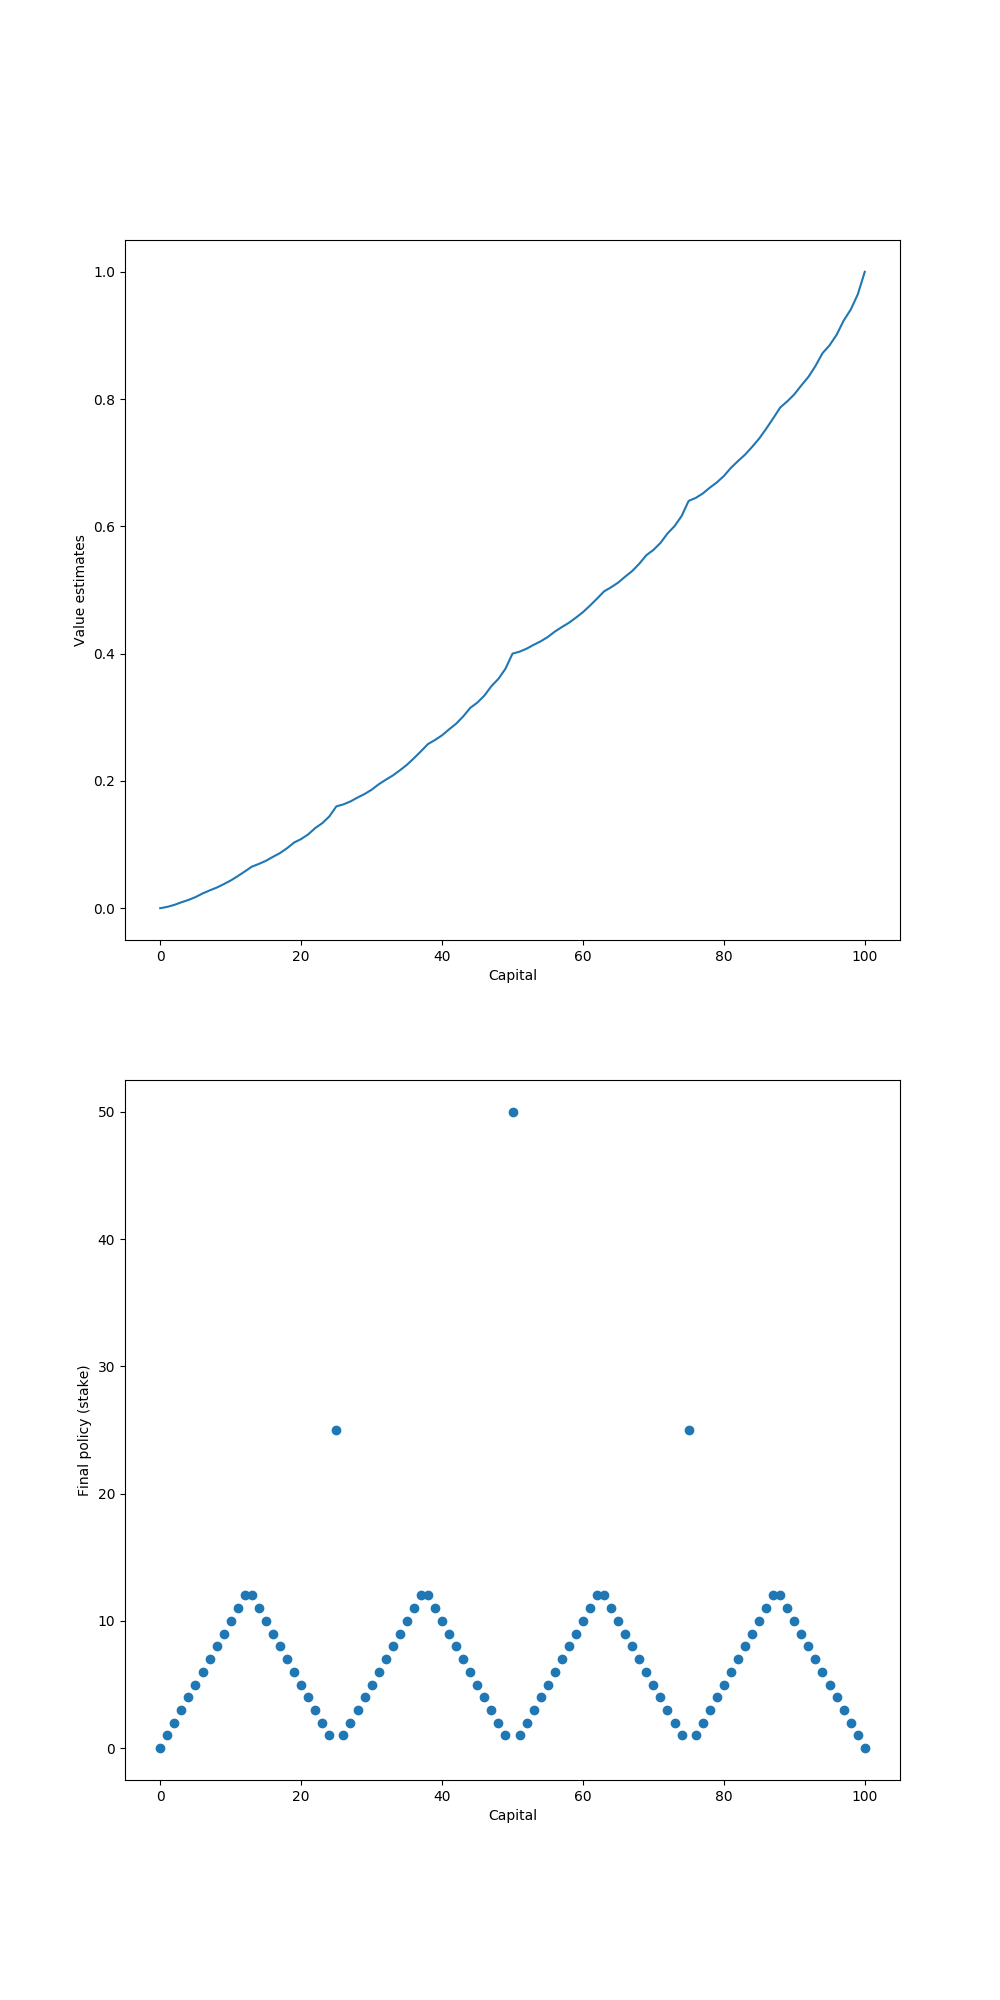
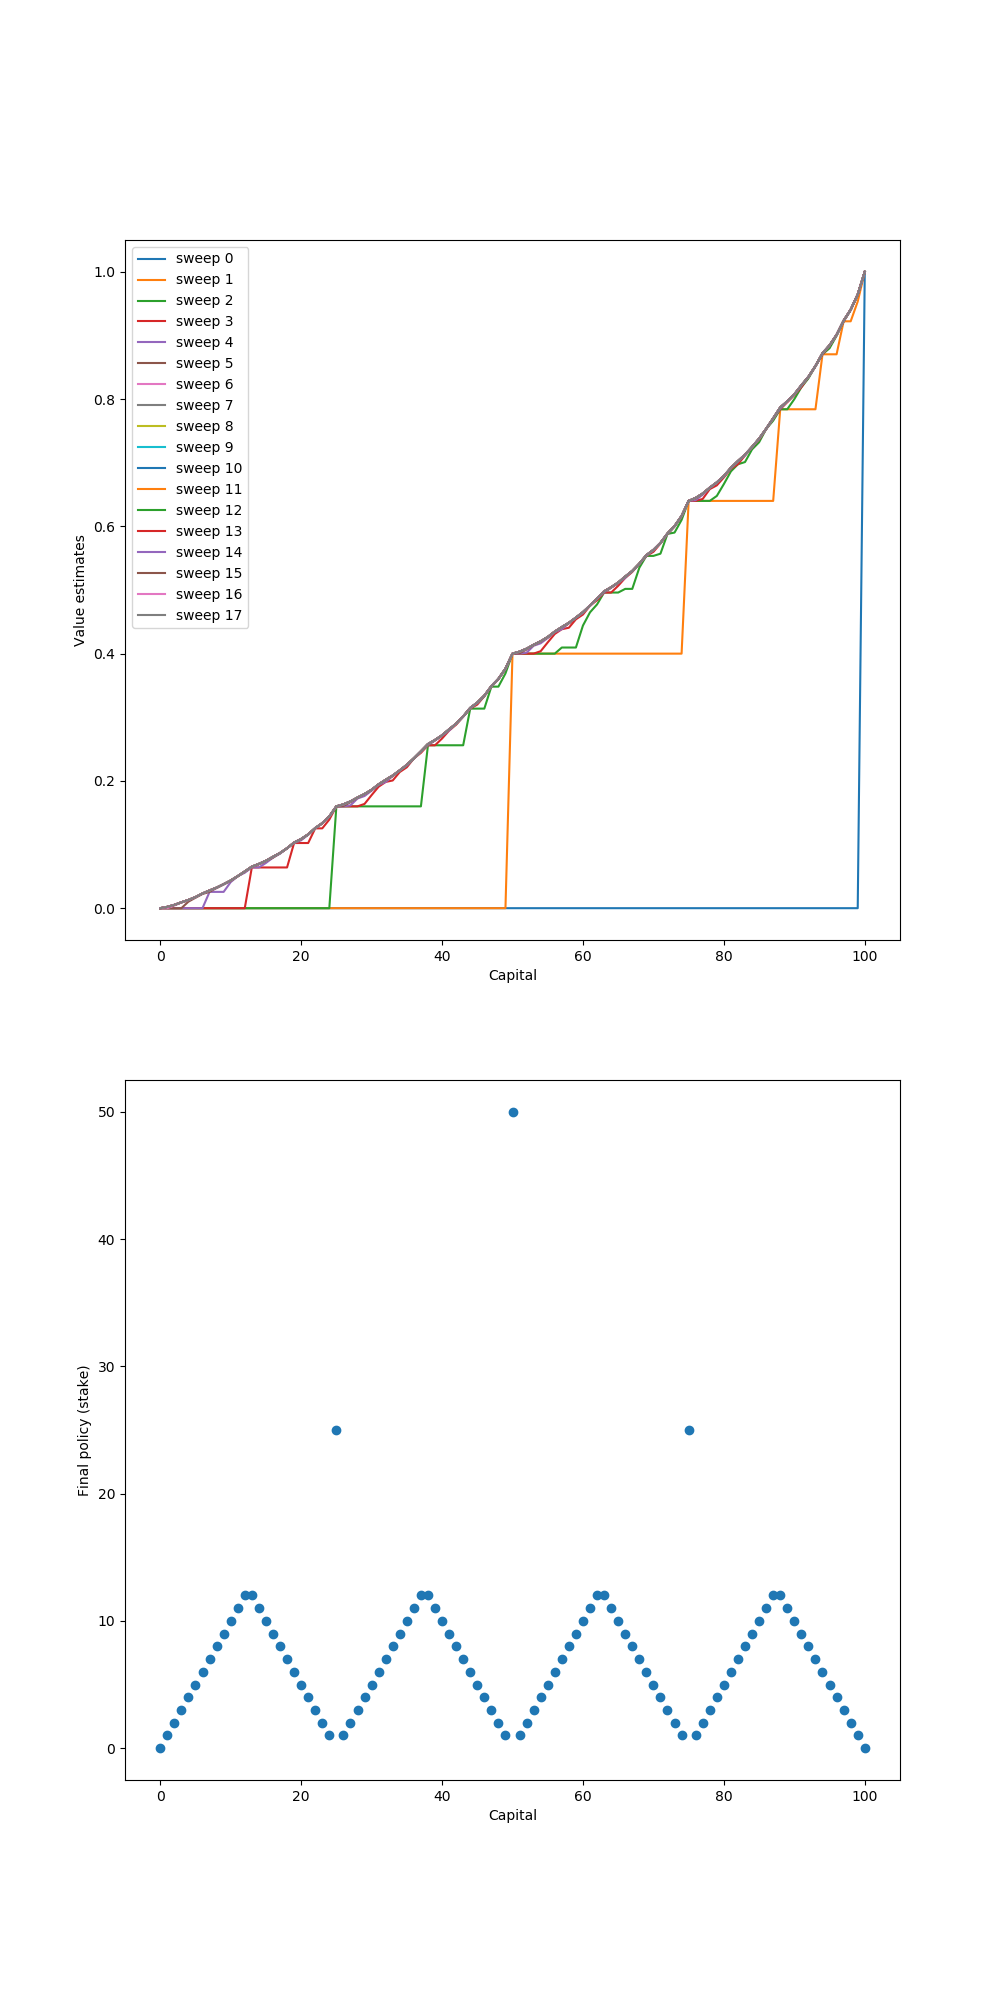
modification for chap04

diff --git a/chapter04/car_rental.py b/chapter04/car_rental.py
@@ -7,12 +7,13 @@
 # declaration at the top                                              #
 #######################################################################
 
-import numpy as np
 import matplotlib
-matplotlib.use('Agg')
 import matplotlib.pyplot as plt
-from math import exp, factorial
+import numpy as np
 import seaborn as sns
+from scipy.stats import poisson
+
+matplotlib.use('Agg')
 
 # maximum # of cars in each location
 MAX_CARS = 20
@@ -50,47 +51,55 @@ POISSON_UPPER_BOUND = 11
 # Probability for poisson distribution
 # @lam: lambda should be less than 10 for this function
 poisson_cache = dict()
-def poisson(n, lam):
+
+
+def poisson_probability(n, lam):
     global poisson_cache
     key = n * 10 + lam
-    if key not in poisson_cache.keys():
-        poisson_cache[key] = exp(-lam) * pow(lam, n) / factorial(n)
+    if key not in poisson_cache:
+        poisson_cache[key] = poisson.pmf(n, lam)
     return poisson_cache[key]
 
-# @state: [# of cars in first location, # of cars in second location]
-# @action: positive if moving cars from first location to second location,
-#          negative if moving cars from second location to first location
-# @stateValue: state value matrix
-# @constant_returned_cars:  if set True, model is simplified such that
-#   the # of cars returned in daytime becomes constant
-#   rather than a random value from poisson distribution, which will reduce calculation time
-#   and leave the optimal policy/value state matrix almost the same
+
 def expected_return(state, action, state_value, constant_returned_cars):
+    """
+    @state: [# of cars in first location, # of cars in second location]
+    @action: positive if moving cars from first location to second location,
+            negative if moving cars from second location to first location
+    @stateValue: state value matrix
+    @constant_returned_cars:  if set True, model is simplified such that
+    the # of cars returned in daytime becomes constant
+    rather than a random value from poisson distribution, which will reduce calculation time
+    and leave the optimal policy/value state matrix almost the same
+    """
     # initailize total return
     returns = 0.0
 
     # cost for moving cars
     returns -= MOVE_CAR_COST * abs(action)
 
+    # moving cars
+    NUM_OF_CARS_FIRST_LOC = min(state[0] - action, MAX_CARS)
+    NUM_OF_CARS_SECOND_LOC = min(state[1] + action, MAX_CARS)
+
     # go through all possible rental requests
-    for rental_request_first_loc in range(0, POISSON_UPPER_BOUND):
-        for rental_request_second_loc in range(0, POISSON_UPPER_BOUND):
-            # moving cars
-            num_of_cars_first_loc = int(min(state[0] - action, MAX_CARS))
-            num_of_cars_second_loc = int(min(state[1] + action, MAX_CARS))
+    for rental_request_first_loc in range(POISSON_UPPER_BOUND):
+        for rental_request_second_loc in range(POISSON_UPPER_BOUND):
+            # probability for current combination of rental requests
+            prob = poisson_probability(rental_request_first_loc, RENTAL_REQUEST_FIRST_LOC) * \
+                poisson_probability(rental_request_second_loc, RENTAL_REQUEST_SECOND_LOC)
+
+            num_of_cars_first_loc = NUM_OF_CARS_FIRST_LOC
+            num_of_cars_second_loc = NUM_OF_CARS_SECOND_LOC
 
             # valid rental requests should be less than actual # of cars
-            real_rental_first_loc = min(num_of_cars_first_loc, rental_request_first_loc)
-            real_rental_second_loc = min(num_of_cars_second_loc, rental_request_second_loc)
+            valid_rental_first_loc = min(num_of_cars_first_loc, rental_request_first_loc)
+            valid_rental_second_loc = min(num_of_cars_second_loc, rental_request_second_loc)
 
             # get credits for renting
-            reward = (real_rental_first_loc + real_rental_second_loc) * RENTAL_CREDIT
-            num_of_cars_first_loc -= real_rental_first_loc
-            num_of_cars_second_loc -= real_rental_second_loc
-
-            # probability for current combination of rental requests
-            prob = poisson(rental_request_first_loc, RENTAL_REQUEST_FIRST_LOC) * \
-                         poisson(rental_request_second_loc, RENTAL_REQUEST_SECOND_LOC)
+            reward = (valid_rental_first_loc + valid_rental_second_loc) * RENTAL_CREDIT
+            num_of_cars_first_loc -= valid_rental_first_loc
+            num_of_cars_second_loc -= valid_rental_second_loc
 
             if constant_returned_cars:
                 # get returned cars, those cars can be used for renting tomorrow
@@ -100,14 +109,17 @@ def expected_return(state, action, state_value, constant_returned_cars):
                 num_of_cars_second_loc = min(num_of_cars_second_loc + returned_cars_second_loc, MAX_CARS)
                 returns += prob * (reward + DISCOUNT * state_value[num_of_cars_first_loc, num_of_cars_second_loc])
             else:
-                for returned_cars_first_loc in range(0, POISSON_UPPER_BOUND):
-                    for returned_cars_second_loc in range(0, POISSON_UPPER_BOUND):
+                for returned_cars_first_loc in range(POISSON_UPPER_BOUND):
+                    for returned_cars_second_loc in range(POISSON_UPPER_BOUND):
+                        prob_return = poisson_probability(
+                            returned_cars_first_loc, RETURNS_FIRST_LOC) * poisson_probability(returned_cars_second_loc, RETURNS_SECOND_LOC)
                         num_of_cars_first_loc_ = min(num_of_cars_first_loc + returned_cars_first_loc, MAX_CARS)
                         num_of_cars_second_loc_ = min(num_of_cars_second_loc + returned_cars_second_loc, MAX_CARS)
-                        prob_ = poisson(returned_cars_first_loc, RETURNS_FIRST_LOC) * \
-                               poisson(returned_cars_second_loc, RETURNS_SECOND_LOC) * prob
-                        returns += prob_ * (reward + DISCOUNT * state_value[num_of_cars_first_loc_, num_of_cars_second_loc_])
+                        prob_ = prob_return * prob
+                        returns += prob_ * (reward + DISCOUNT *
+                                            state_value[num_of_cars_first_loc_, num_of_cars_second_loc_])
     return returns
+
 
 def figure_4_2(constant_returned_cars=True):
     value = np.zeros((MAX_CARS + 1, MAX_CARS + 1))
@@ -122,37 +134,38 @@ def figure_4_2(constant_returned_cars=True):
         fig.set_ylabel('# cars at first location', fontsize=30)
         fig.set_yticks(list(reversed(range(MAX_CARS + 1))))
         fig.set_xlabel('# cars at second location', fontsize=30)
-        fig.set_title('policy %d' % (iterations), fontsize=30)
+        fig.set_title('policy {}'.format(iterations), fontsize=30)
 
         # policy evaluation (in-place)
         while True:
-            new_value = np.copy(value)
+            old_value = value.copy()
             for i in range(MAX_CARS + 1):
                 for j in range(MAX_CARS + 1):
-                    new_value[i, j] = expected_return([i, j], policy[i, j], new_value,
-                                                      constant_returned_cars)
-            value_change = np.abs((new_value - value)).sum()
-            print('value change %f' % (value_change))
-            value = new_value
-            if value_change < 1e-4:
+                    new_state_value = expected_return([i, j], policy[i, j], value, constant_returned_cars)
+                    value[i, j] = new_state_value
+            max_value_change = abs(old_value - value).max()
+            print('max value change {}'.format(max_value_change))
+            if max_value_change < 1e-4:
                 break
 
         # policy improvement
-        new_policy = np.copy(policy)
+        policy_stable = True
         for i in range(MAX_CARS + 1):
             for j in range(MAX_CARS + 1):
+                old_action = policy[i, j]
                 action_returns = []
                 for action in actions:
-                    if (action >= 0 and i >= action) or (action < 0 and j >= abs(action)):
+                    if (0 <= action <= i) or (-j <= action <= 0):
                         action_returns.append(expected_return([i, j], action, value, constant_returned_cars))
                     else:
-                        action_returns.append(-float('inf'))
-                new_policy[i, j] = actions[np.argmax(action_returns)]
+                        action_returns.append(-np.inf)
+                new_action = actions[np.argmax(action_returns)]
+                policy[i, j] = new_action
+                if policy_stable and old_action != new_action:
+                    policy_stable = False
+        print('policy stable {}'.format(policy_stable))
 
-        policy_change = (new_policy != policy).sum()
-        print('policy changed in %d states' % (policy_change))
-        policy = new_policy
-        if policy_change == 0:
+        if policy_stable:
             fig = sns.heatmap(np.flipud(value), cmap="YlGnBu", ax=axes[-1])
             fig.set_ylabel('# cars at first location', fontsize=30)
             fig.set_yticks(list(reversed(range(MAX_CARS + 1))))
@@ -164,6 +177,7 @@ def figure_4_2(constant_returned_cars=True):
 
     plt.savefig('../images/figure_4_2.png')
     plt.close()
+
 
 if __name__ == '__main__':
     figure_4_2()

diff --git a/chapter04/grid_world.py b/chapter04/grid_world.py
@@ -6,11 +6,12 @@
 # declaration at the top                                              #
 #######################################################################
 
-import numpy as np
 import matplotlib
-matplotlib.use('Agg')
 import matplotlib.pyplot as plt
+import numpy as np
 from matplotlib.table import Table
+
+matplotlib.use('Agg')
 
 WORLD_SIZE = 4
 # left, up, right, down
@@ -20,20 +21,25 @@ ACTIONS = [np.array([0, -1]),
            np.array([1, 0])]
 ACTION_PROB = 0.25
 
+
 def is_terminal(state):
     x, y = state
     return (x == 0 and y == 0) or (x == WORLD_SIZE - 1 and y == WORLD_SIZE - 1)
 
+
 def step(state, action):
-    state = np.array(state)
-    next_state = (state + action).tolist()
+    if is_terminal(state):
+        return state, 0
+
+    next_state = (np.array(state) + action).tolist()
     x, y = next_state
 
     if x < 0 or x >= WORLD_SIZE or y < 0 or y >= WORLD_SIZE:
-        next_state = state.tolist()
+        next_state = state
 
     reward = -1
     return next_state, reward
+
 
 def draw_image(image):
     fig, ax = plt.subplots()
@@ -44,58 +50,58 @@ def draw_image(image):
     width, height = 1.0 / ncols, 1.0 / nrows
 
     # Add cells
-    for (i,j), val in np.ndenumerate(image):
-        # Index either the first or second item of bkg_colors based on
-        # a checker board pattern
-        idx = [j % 2, (j + 1) % 2][i % 2]
-        color = 'white'
-
+    for (i, j), val in np.ndenumerate(image):
         tb.add_cell(i, j, width, height, text=val,
-                    loc='center', facecolor=color)
+                    loc='center', facecolor='white')
 
-    # Row Labels...
-    for i, label in enumerate(range(len(image))):
-        tb.add_cell(i, -1, width, height, text=label+1, loc='right',
+        # Row and column labels...
+    for i in range(len(image)):
+        tb.add_cell(i, -1, width, height, text=i+1, loc='right',
                     edgecolor='none', facecolor='none')
-    # Column Labels...
-    for j, label in enumerate(range(len(image))):
-        tb.add_cell(-1, j, width, height/2, text=label+1, loc='center',
-                           edgecolor='none', facecolor='none')
+        tb.add_cell(-1, i, width, height/2, text=i+1, loc='center',
+                    edgecolor='none', facecolor='none')
     ax.add_table(tb)
 
-def compute_state_value(in_place=False):
+
+def compute_state_value(in_place=True, discount=1.0):
     new_state_values = np.zeros((WORLD_SIZE, WORLD_SIZE))
-    state_values = new_state_values.copy()
-    iteration = 1
+    iteration = 0
     while True:
-        src = new_state_values if in_place else state_values
+        if in_place:
+            state_values = new_state_values
+        else:
+            state_values = new_state_values.copy()
+        old_state_values = state_values.copy()
+
         for i in range(WORLD_SIZE):
             for j in range(WORLD_SIZE):
-                if is_terminal([i, j]):
-                    continue
                 value = 0
                 for action in ACTIONS:
                     (next_i, next_j), reward = step([i, j], action)
-                    value += ACTION_PROB * (reward + src[next_i, next_j])
+                    value += ACTION_PROB * (reward + discount * state_values[next_i, next_j])
                 new_state_values[i, j] = value
-        if np.sum(np.abs(new_state_values - state_values)) < 1e-4:
-            state_values = new_state_values.copy()
+
+        max_delta_value = abs(old_state_values - new_state_values).max()
+        if max_delta_value < 1e-4:
             break
 
-        state_values = new_state_values.copy()
         iteration += 1
 
-    return state_values, iteration
+    return new_state_values, iteration
+
 
 def figure_4_1():
-    values, sync_iteration = compute_state_value(in_place=False)
+    # While the author suggests using in-place iterative policy evaluation,
+    # Figure 4.1 actually uses out-of-place version.
     _, asycn_iteration = compute_state_value(in_place=True)
+    values, sync_iteration = compute_state_value(in_place=False)
     draw_image(np.round(values, decimals=2))
-    print('In-place: %d iterations' % (asycn_iteration))
-    print('Synchronous: %d iterations' % (sync_iteration))
+    print('In-place: {} iterations'.format(asycn_iteration))
+    print('Synchronous: {} iterations'.format(sync_iteration))
 
     plt.savefig('../images/figure_4_1.png')
     plt.close()
+
 
 if __name__ == '__main__':
     figure_4_1()

diff --git a/chapter04/gamblers_problem.py b/chapter04/gamblers_problem.py
@@ -6,10 +6,11 @@
 # declaration at the top                                              #
 #######################################################################
 
-import numpy as np
 import matplotlib
-matplotlib.use('Agg')
 import matplotlib.pyplot as plt
+import numpy as np
+
+matplotlib.use('Agg')
 
 # goal
 GOAL = 100
@@ -20,14 +21,19 @@ STATES = np.arange(GOAL + 1)
 # probability of head
 HEAD_PROB = 0.4
 
+
 def figure_4_3():
     # state value
     state_value = np.zeros(GOAL + 1)
     state_value[GOAL] = 1.0
 
+    sweeps_history = []
+
     # value iteration
     while True:
-        delta = 0.0
+        old_state_value = state_value.copy()
+        sweeps_history.append(old_state_value)
+
         for state in STATES[1:GOAL]:
             # get possilbe actions for current state
             actions = np.arange(min(state, GOAL - state) + 1)
@@ -36,10 +42,10 @@ def figure_4_3():
                 action_returns.append(
                     HEAD_PROB * state_value[state + action] + (1 - HEAD_PROB) * state_value[state - action])
             new_value = np.max(action_returns)
-            delta += np.abs(state_value[state] - new_value)
-            # update state value
             state_value[state] = new_value
+        delta = abs(state_value - old_state_value).max()
         if delta < 1e-9:
+            sweeps_history.append(state_value)
             break
 
     # compute the optimal policy
@@ -58,9 +64,11 @@ def figure_4_3():
     plt.figure(figsize=(10, 20))
 
     plt.subplot(2, 1, 1)
-    plt.plot(state_value)
+    for sweep, state_value in enumerate(sweeps_history):
+        plt.plot(state_value, label='sweep {}'.format(sweep))
     plt.xlabel('Capital')
     plt.ylabel('Value estimates')
+    plt.legend(loc='best')
 
     plt.subplot(2, 1, 2)
     plt.scatter(STATES, policy)
@@ -69,6 +77,7 @@ def figure_4_3():
 
     plt.savefig('../images/figure_4_3.png')
     plt.close()
+
 
 if __name__ == '__main__':
     figure_4_3()
